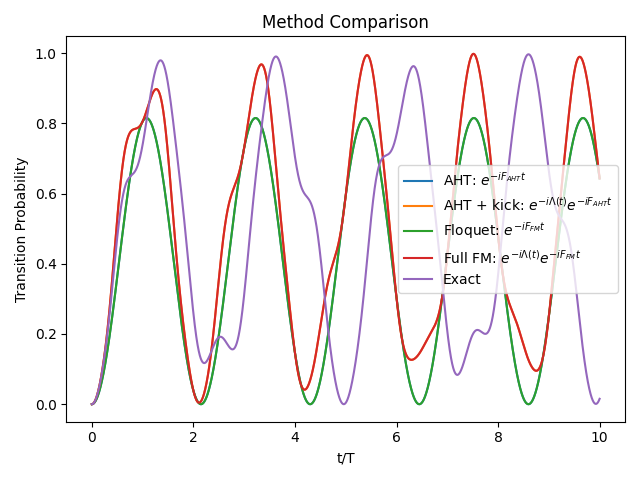
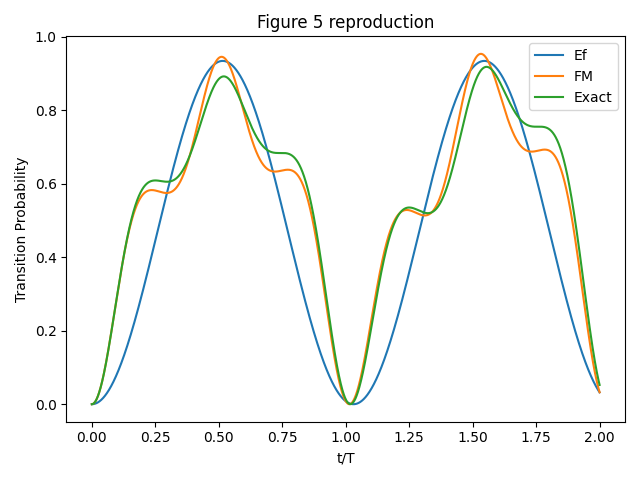
Implemented scheme from the Arnal paper

diff --git a/Floquet-Magnus.py b/Floquet-Magnus.py
@@ -31,6 +31,7 @@ class FloquetSystem:
     order: int
     periods: int
     N_t: int = 5000
+    aht: bool = True
     Lambda: object = None
     F: object = None
     U_exact: object = None
@@ -46,8 +47,8 @@ class FloquetSystem:
     def t_grid(self):
         return np.linspace(0, self.period*self.periods, self.N_t*self.periods)
     
-    def run(self, compute_propagators=True, aht=True):
-        self.Lambda, self.F = self.floquet_magnus_expansion(aht)
+    def run(self, compute_propagators=True):
+        self.Lambda, self.F = self.floquet_magnus_expansion(self.aht)
         if compute_propagators:
             self.U_exact = self.exact_evolution()
             self.U_FM, self.kick, self.Floquet = self.FM_evolution()
@@ -116,7 +117,8 @@ class FloquetSystem:
         Us = [U]
         for i in range(1, len(self.t_grid)):
             dt = t_grid[i] - t_grid[i-1]
-            U = expm(-1j * H_func(t_grid[i]) * dt) @ U
+            t_mid = (t_grid[i] + t_grid[i-1]) / 2  # midpoint
+            U = expm(-1j * H_func(t_mid) * dt) @ U
             Us.append(U)
         return np.array(Us)
 
@@ -138,15 +140,13 @@ def bloch_siegert_int(omega, A, s):
     Sp = Sx + 1j*Sy
     Sm = Sx - 1j*Sy
     def H(t):
-        return (0.5*Sx 
-                + A*(Sp*np.exp(2j*omega*t) 
-                       + Sm*np.exp(-2j*omega*t)))
+        return (A/2) * (Sp*(1 + np.exp(-2j*omega*t)) + Sm*(1 + np.exp(2j*omega*t)))
     return H
 
 def bloch_siegert_lab(omega, A, s):
     Sx, Sy, Sz = spin_matrices(s)
     def H(t):
-        return 0.5*Sx + A*np.cos(omega*t)*Sz
+        return Sz + A*np.cos(omega*t)*Sx
     return H
 
 def evaluate_accuracy(U1, U2):
@@ -260,41 +260,30 @@ def quasienergy_plot(ax, sys, A_max=5, n_amps=10, s=0.5):
     ax.set_ylabel(r"Quasienergy $/ \,\omega$")
     ax.set_title(r"Floquet Quasienergy Spectrum vs $A/\omega$")
 
-
-if __name__ == "__main__":
-    start_ptime = process_time()
-    start_rtime = time()
-
-    #Runs the system twice to get all the operators
-    omega = 1
-    sys = FloquetSystem(H_func=bloch_siegert_lab(omega=omega, A=0.8, s=0.5), omega=omega, order=3, periods=10)
-    sys.run(aht=True)
-    aht_floq = sys.Floquet.copy()
-    aht_kick = sys.kick.copy()
-    sys.run(aht=False)
-    floq_floq = sys.Floquet
-    floq_kick = sys.kick
-
-
-    # LOOKS DIFFERENT BECAUSE THEY PLOT TRANSITION PROB AND I PLOT EXPECTATION VALUE
-    #Plots full motion for each operator
+def comparison_plot(aht_sys, floq_sys):
     psi_0 = [1,0]
-    Us = [aht_floq, aht_kick@aht_floq, floq_kick[0]@floq_floq@floq_kick[0].conj().T, floq_kick@floq_floq@floq_kick[0].conj().T, sys.U_exact]
+    Us = [
+        aht_sys.Floquet,                                          # AHT: e^{-iF_AHT t}
+        aht_sys.kick @ aht_sys.Floquet,                               # AHT + kick: P(t) e^{-iF_AHT t}
+        floq_sys.Floquet,                                         # Floquet: e^{-iF_FM t} (stroboscopic only)
+        floq_sys.kick @ floq_sys.Floquet @ floq_sys.kick[0].conj().T,    # Full FM: P(t) e^{-iF_FM t} P(0)†
+        aht_sys.U_exact
+    ]
     labels = [r"AHT: $e^{-iF_{AHT}t}$", r"AHT + kick: $e^{-i\Lambda(t)}e^{-iF_{AHT}t}$", r"Floquet: $e^{-iF_{FM}t}$",r"Full FM: $e^{-i\Lambda(t)}e^{-iF_{FM}t}$","Exact"]
     fig, axs = plt.subplots(2)
     Sx, Sy, Sz = spin_matrices(0.5)
     for i, (U, label) in enumerate(zip(Us, labels)):
         psi_t = U @ psi_0
         exp_Sz = expectation(psi_t, Sz)
-        axs[0].plot(sys.t_grid/sys.period, exp_Sz, label=label)
+        axs[0].plot(aht_sys.t_grid/aht_sys.period, exp_Sz, label=label)
         axs[0].set_title("Method Comparison")
         axs[0].set_xlabel("t/T")
         axs[0].set_ylabel(r"$<S_z(t)>$")
     axs[0].legend()
     error_aht = bloch_vector_error(Us[0], Us[4], psi_0, s=1/2)
     error_aht_kick = bloch_vector_error(Us[1], Us[4], psi_0, s=1/2)
-    axs[1].plot(sys.t_grid/sys.period, error_aht, label=r"AHT: $e^{-iF_{AHT}t}$")
-    axs[1].plot(sys.t_grid/sys.period, error_aht_kick, label=r"AHT + kick: $e^{-i\Lambda(t)}e^{-iF_{AHT}t}$")
+    axs[1].plot(aht_sys.t_grid/aht_sys.period, error_aht, label=r"AHT: $e^{-iF_{AHT}t}$")
+    axs[1].plot(aht_sys.t_grid/aht_sys.period, error_aht_kick, label=r"AHT + kick: $e^{-i\Lambda(t)}e^{-iF_{AHT}t}$")
     axs[1].set_title("Bloch Vector Error")
     axs[1].set_xlabel("t/T")
     axs[1].set_ylabel(r"$|\Delta\vec{r}|$")
@@ -302,28 +291,63 @@ if __name__ == "__main__":
     fig.tight_layout()
     fig.savefig('plots/Comparison', dpi=300)
 
-    fig, axs = plt.subplots(1)
-    psi_0 = [1,0]
-    Us = [aht_floq, aht_kick@aht_floq, floq_kick[0]@floq_floq@floq_kick[0].conj().T, floq_kick@floq_floq@floq_kick[0].conj().T, sys.U_exact]
-    labels = [r"AHT: $e^{-iF_{AHT}t}$", r"AHT + kick: $e^{-i\Lambda(t)}e^{-iF_{AHT}t}$", r"Floquet: $e^{-iF_{FM}t}$",r"Full FM: $e^{-i\Lambda(t)}e^{-iF_{FM}t}$","Exact"]
-    for i, (U, label) in enumerate(zip(Us, labels)):
-        psi_t = U @ psi_0          
-        P = np.abs(psi_t[:, 1])**2
-        axs.plot(sys.t_grid/sys.period, P, label=label)
-    axs.set_title("Method Comparison")
-    axs.set_xlabel("t/T")
-    axs.set_ylabel("Transition Probability")
-    axs.legend()
-    fig.tight_layout()
-    fig.savefig('plots/Transition_Probability')
+def transition_plot(sys):
+    psi_0 = np.array([1., 0.], dtype=complex)
+    floquet = sys.Floquet
+    kick = sys.kick
+    # Paper's "Ef": just the effective Hamiltonian
+    psi_ef = floquet @ psi_0
+    P_ef = np.abs(psi_ef[:, 1])**2
+
+    # Paper's "FM": full propagator with kick
     
+    psi_fm = (kick @ floquet) @ (kick[0].conj().T @ psi_0)
+    P_fm = np.abs(psi_fm[:, 1])**2
+
+    # Exact
+    psi_exact = sys.U_exact @ psi_0
+    P_exact = np.abs(psi_exact[:, 1])**2
+
+    fig, ax = plt.subplots()
+    ax.plot(sys.t_grid / sys.period, P_ef,    label="Ef")
+    ax.plot(sys.t_grid / sys.period, P_fm,    label="FM")
+    ax.plot(sys.t_grid / sys.period, P_exact, label="Exact")
+    ax.set_xlabel("t/T")
+    ax.set_ylabel("Transition Probability")
+    ax.set_title(f"Figure 5 reproduction")
+    ax.legend()
+    fig.tight_layout()
+    fig.savefig("plots/Transition_Probability")
+
+if __name__ == "__main__":
+    start_ptime = process_time()
+    start_rtime = time()
+
+
+    
+
+    #Runs the system twice to get all the operators
+    omega = 1
+    eps = 1
+    spin = 0.5
+    aht_sys = FloquetSystem(H_func=bloch_siegert_int(omega=omega, A=eps, s=spin), omega=omega, order=3, periods=2, aht=True)
+    aht_sys.run()
+    floq_sys = FloquetSystem(H_func=bloch_siegert_int(omega=omega, A=eps, s=spin), omega=omega, order=3, periods=2, aht=False)
+    floq_sys.run()
+
+    # LOOKS DIFFERENT BECAUSE THEY PLOT TRANSITION PROB AND I PLOT EXPECTATION VALUE
+    #Plots full motion for each operator
+    comparison_plot(aht_sys, floq_sys)
+
+    
+    transition_plot(floq_sys)
 
     #Plots various qualities of the system
     fig, axs = plt.subplots(2,2, figsize=(8,6))
-    accuracy_plot(axs[0,0], sys)
-    convergence_plot(axs[0,1], sys, 0.5, 1)
-    micromotion_dev_plot(axs[1,0], sys)
-    quasienergy_plot(axs[1,1], sys, s=0.5)
+    accuracy_plot(axs[0,0], floq_sys)
+    convergence_plot(axs[0,1], floq_sys, 0.5, 1)
+    micromotion_dev_plot(axs[1,0], floq_sys)
+    quasienergy_plot(axs[1,1], floq_sys, s=0.5)
     fig.tight_layout()
     plt.savefig('plots/Floquet-Magnus_Plots')
 